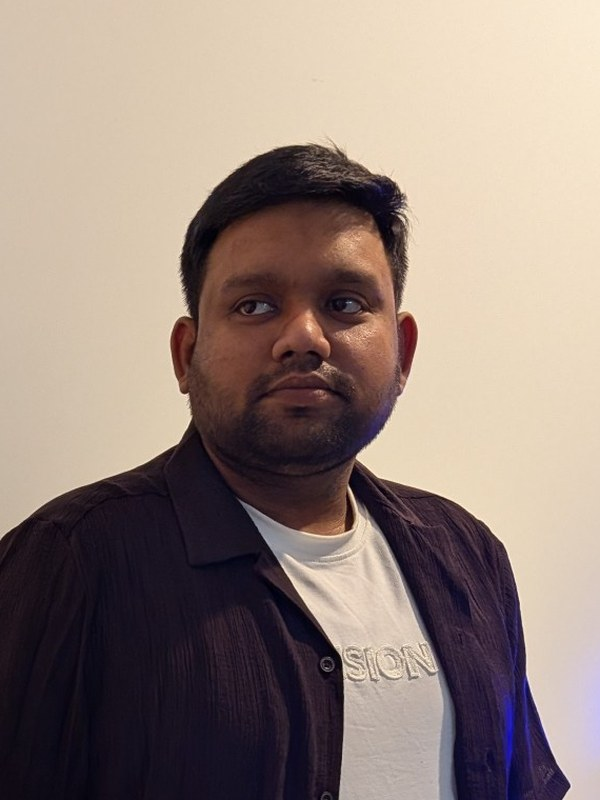
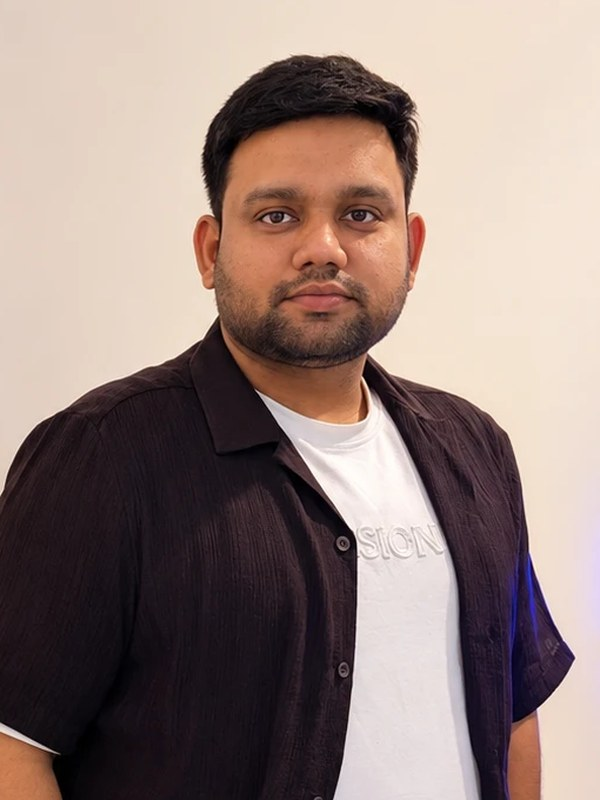
Update profile photo
Claude-Session: https://claude.ai/code/session_01AbT582EyLfQNdo2mj2FXoJ

diff --git a/index.html b/index.html
@@ -314,7 +314,7 @@
                     <div class="row"><span class="k">Caste</span><span class="c">:</span><span class="v">Rauniyar Baniya</span></div>
                 </div>
                 <div class="photo">
-                    <img src="./profile.jpg" alt="Aditya Ankur">
+                    <img src="./profile.jpg?v=2" alt="Aditya Ankur">
                 </div>
             </div>
 
